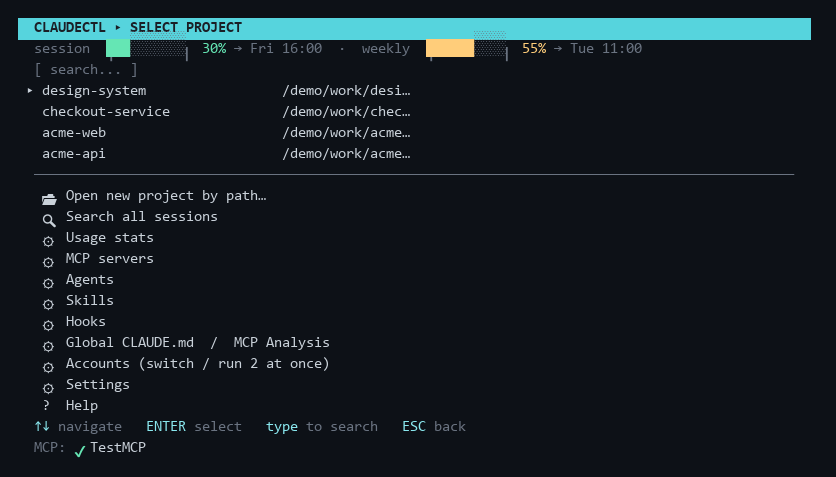
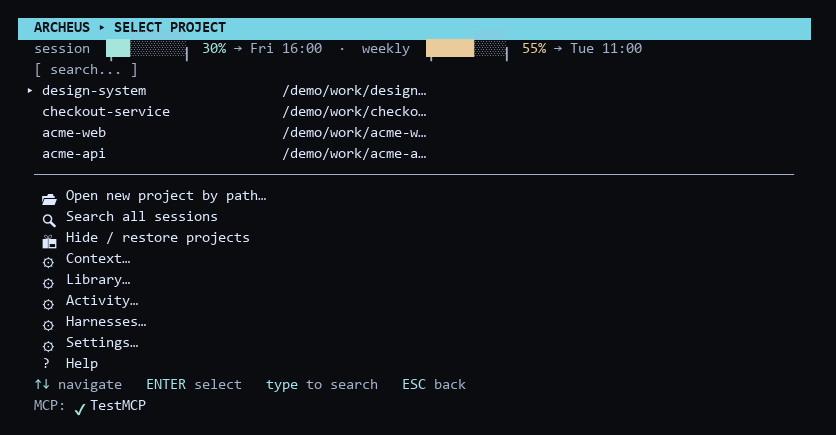
Re-shoot everything published, in the world the product is about
The captures were a release behind and taken in whichever look the tool
happened to leave on. They are taken in the graph world now — the one built
from this project's own architecture graph — as their own pass in
tools/shot_gui.py, because the audit that runs above it prints numbers that
describe the default skin and has to keep describing it. The TUI captures wear
the same palette, derived from themes.py rather than the sixteen literals that
were copied off the default theme and would never have failed when it moved.

Three defects, each found by LOOKING at the output rather than by running the
tool:

The graph world's surfaces were too transparent to read. Its `op` of .58 is
fine on the dashboard, whose cards are dense, and illegible on a sparse page,
where a large panel has nothing in it but the stage showing through — the
session detail pane was unreadable with a lit cluster behind it. .74 keeps the
scene visible through every surface and the text crisp. Per-page opacity is
still not the fix and never will be.

`.pgnote` and `.mtabs` are the only two text surfaces with no panel behind
them, which is right over a quiet gradient and wrong over a lit scene: a
cluster crossed the Usage page's harness strip and it read as "Claude ode".
They get a shadow where a stage is running, not a panel, because boxing them is
what the layout deliberately avoids.

The TUI capture shipped a warning about THIS MACHINE's packaging state across
[…]

Changed region(s): [[0.0, 0.0299, 0.9952, 0.9563]]

diff --git a/claude_sessions/web/app.css b/claude_sessions/web/app.css
@@ -2409,3 +2409,19 @@ html.zen .top>#bZen:hover,html.zen .top>#bZen:focus-visible{opacity:1}
   background:none;border-bottom:1px solid var(--line);
   padding:0;margin:0 0 var(--sp-3);z-index:auto}
 .mtabs .tab{padding:7px 13px;font-size:11.5px}
+
+/* ── the two text surfaces that sit ON the stage ────────────────────────
+   Everything else inside `#content` is in a `.card`, which paints
+   `rgba(var(--panel-rgb),var(--sk-op))` and therefore has a ground of its own.
+   `.pgnote` and `.mtabs` deliberately have none — a page's one-line note and an
+   in-content tab strip are not boxes, and over a quiet gradient that reads
+   exactly right, which is why they were written that way.
+
+   Over a LIT scene it stops reading: measured on the published captures, a
+   bright cluster crossed the harness strip and the Usage page's own tabs came
+   out as `Claude ode`, and the Memory page's note had a node sitting inside a
+   word. A shadow rather than a panel, because a panel would box the two things
+   the layout deliberately leaves unboxed — and it is scoped to `stage-on`, so
+   it exists only where its cause does. Static; no readback, nothing animated. */
+html.stage-on .pgnote,html.stage-on .mtabs .tab{
+  text-shadow:0 1px 3px rgba(0,0,0,.78)}

diff --git a/tools/shot_gui.py b/tools/shot_gui.py
@@ -790,6 +790,27 @@ def main():
             pg.set_viewport_size({'width': 1600, 'height': 1000})
             pg.wait_for_timeout(400)
             pg.screenshot(path=os.path.join(OUT, f'_skin_{sk}.png'))
+
+        # ── the published captures, in the graph world ──
+        # What the README and both sites show is a decision, not whatever the
+        # default happened to be: `graph` is the world built from this project's
+        # OWN architecture graph, so the screenshots wear the thing the product
+        # is about. It is a separate pass rather than a world set around the
+        # audit above, because every number that pass prints describes the
+        # default skin and has to keep describing it.
+        print(chr(10) + '— published captures (graph world) —')
+        pg.evaluate("ST.world='graph';applyTheme(ST.theme)")
+        pg.set_viewport_size({'width': 1600, 'height': 1000})
+        pg.evaluate("go('home')")
+        pg.wait_for_timeout(1200)
+        for name, nav in DOC_PAGES:
+            pg.evaluate(nav)
+            # longer than the audit's wait: these are the published frames, and
+            # the stage fades in over ~500ms after a world change
+            pg.wait_for_timeout(1100)
+            pg.screenshot(path=os.path.join(OUT, f'_doc_{name}.png'))
+            print('  ' + name)
+
         pg.evaluate("ST.world='';ST.skin='';applyTheme(ST.theme)")
         br.close()
     srv.shutdown()
@@ -828,15 +849,59 @@ def main():
 #: third-party design material we cannot redistribute — so the handful of shots
 #: that ship are copied into a tracked directory deliberately, by name, rather
 #: than by publishing the whole scratch folder.
+#: name -> how to get there, for the published pass. A project has to be open
+#: before a project TAB means anything, so the order is load-bearing and the
+#: list is a sequence rather than a mapping.
+DOC_PAGES = (
+    ('dash', "go('home')"),
+    ('usage', "go('usage')"),
+    ('client', "go('client')"),
+    ('sessions', "openProject(ST.projects[0]);TAB='sessions';go('project')"),
+    ('memory', "TAB='memory';go('project')"),
+)
+
 DOC_SHOTS = {
-    '_shot_dash.png': 'gui-dashboard.png',
-    '_shot_tab_sessions.png': 'gui-sessions.png',
-    '_shot_tab_memory.png': 'gui-memory.png',
-    '_shot_client.png': 'gui-claude-code.png',
-    '_shot_usage.png': 'gui-usage.png',
+    '_doc_dash.png': 'gui-dashboard.png',
+    '_doc_sessions.png': 'gui-sessions.png',
+    '_doc_memory.png': 'gui-memory.png',
+    '_doc_client.png': 'gui-claude-code.png',
+    '_doc_usage.png': 'gui-usage.png',
+    # The two that exist to SHOW a look rather than a screen, so they stay on
+    # the per-skin pass: the graph world beside a classic skin is the whole
+    # point of the pair, and shooting both in the same world would say nothing.
     '_skin_graph.png': 'gui-skin-graph.png',
     '_skin_crt.png': 'gui-skin-crt.png',
 }
+
+
+#: what a published capture is resampled to on the way out, in CSS pixels wide.
+#: The shots are TAKEN at 1600 because that is the layout worth showing — the
+#: grid has one more column there — and PUBLISHED at 1280 because no page
+#: renders them wider than 900: the manual sets 900, the README's table halves
+#: it. A supersampled 1280 is sharper than a native one and costs 36% fewer
+#: pixels, which is the whole reason this exists: the graph world's stage is a
+#: lit field of several hundred bodies, and PNG cannot compress noise. The same
+#: captures on the old flat background were 180 KB; at 1600 with the stage they
+#: are 790 KB each, and README.md embeds five of them by raw URL, so that is
+#: four megabytes a reader downloads to look at a repository page.
+PUBLISH_W = 1280
+
+
+def _downscale(src, dst):
+    """Resample a capture to PUBLISH_W on the way out. False if Pillow is
+    absent — the copy still happens, just at full size, because a missing
+    optional dependency must not silently publish NOTHING."""
+    try:
+        from PIL import Image
+    except ImportError:
+        return False
+    im = Image.open(src)
+    if im.width <= PUBLISH_W:
+        im.save(dst)
+        return True
+    h = round(im.height * PUBLISH_W / im.width)
+    im.resize((PUBLISH_W, h), Image.LANCZOS).save(dst)
+    return True
 
 
 def export_docs():
@@ -856,7 +921,8 @@ def export_docs():
             if not os.path.isfile(p):
                 print('  MISSING', src)
                 continue
-            shutil.copyfile(p, os.path.join(dest, name))
+            if not _downscale(p, os.path.join(dest, name)):
+                shutil.copyfile(p, os.path.join(dest, name))
             n += 1
         print('exported %d/%d shots → %s' % (n, len(DOC_SHOTS), dest))
 

diff --git a/tools/shot_tui.py b/tools/shot_tui.py
@@ -21,16 +21,57 @@ ROOT = os.path.dirname(os.path.dirname(os.path.abspath(__file__)))
 sys.path.insert(0, ROOT)
 sys.path.insert(0, os.path.join(ROOT, 'tests'))
 
+from claude_sessions import themes as _themes
+
 OUT = os.path.join(ROOT, 'docs', 'img')
 
-#: the 16 ANSI colours, plus the 256-cube, resolved against the GUI palette so
-#: the screenshots match the theme the app actually ships
-BASE16 = [
-    '#1b1f27', '#ff6b81', '#3fdd9d', '#f7b955', '#7dcfff', '#c792ea', '#56d4dd', '#c9d1d9',
-    '#6a7381', '#ff8fa1', '#65e6b4', '#ffcd7a', '#a5e0ff', '#dcb4ff', '#8ae8ef', '#f0f6fc',
-]
-BG = '#0d1117'
-FG = '#c9d1d9'
+#: Which palette the published TUI captures wear. `graph` — the same world the
+#: GUI captures use, so the two halves of one published set are one look rather
+#: than two. It is a hidden palette (a world owns it), which is exactly why it
+#: has to be named here: the picker will never hand it over.
+SHOT_PALETTE = 'graph'
+
+#: the 16 ANSI colours, DERIVED from that palette rather than written down
+#: again. The list used to be sixteen literals copied off the default theme,
+#: which is the shape this repo has been bitten by before: a second spelling of
+#: a canonical value is not a guard, it is a second thing to keep in step, and
+#: nothing would have failed when the palette moved underneath it.
+_P = _themes.PALETTES[SHOT_PALETTE]
+
+
+def _base16(p):
+    """The 16 terminal colours for a palette.
+
+    A palette states surfaces and roles, not an ANSI ramp, so the eight bright
+    slots are the same hues lifted toward white — which is what a terminal's
+    bright half is. `hex_to_x256` is deliberately not used: it never returns
+    0-15 (those are user-configurable in a real terminal), and this is the
+    renderer that has to DRAW them."""
+    def rgb(h):
+        return [int(h[i:i + 2], 16) for i in (1, 3, 5)]
+
+    def hexs(c):
+        return '#%02x%02x%02x' % tuple(int(max(0, min(255, v))) for v in c)
+
+    def lift(h, t=.35):
+        return hexs([v + (255 - v) * t for v in rgb(h)])
+
+    def mix(a, b, t=.5):
+        x, y = rgb(a), rgb(b)
+        return hexs([x[i] + (y[i] - x[i]) * t for i in range(3)])
+
+    # Cyan is the one slot a palette does not state. It is NOT `code`, which is
+    # a code-block ground and comes out near-black; blending the two hues that
+    # bracket it — the ok/teal role and the blue accent — is the derivation that
+    # keeps it a real hue of THIS palette rather than a literal from another.
+    dark = [p['bg2'], p['err'], p['ok'], p['warn'], p['accent'], p['accent2'],
+            mix(p['ok'], p['accent']), p['txt']]
+    return dark + [p['dim']] + [lift(c) for c in dark[1:7]] + [lift(p['txt'], .6)]
+
+
+BASE16 = _base16(_P)
+BG = _P['bg']
+FG = _P['txt']
 
 
 def cube(n):
@@ -232,6 +273,17 @@ def main():
             sb = H.Sandbox(mp, tmp)
             mp.setattr('shutil.get_terminal_size',
                        lambda *a, _c=cols, **k: os.terminal_size((_c, 40)))
+            # The startup warnings read THIS MACHINE, not the fixture, and they
+            # print above the first frame: the capture came out with the
+            # co-installation warning — the old distribution sharing files with
+            # this one — across the top of a published screenshot, which is a
+            # fact about the laptop that shot it. Silenced here rather than in
+            # `main`, because on a real install every one of them is exactly
+            # what the user needs to see.
+            for _w in ('coinstalled_warning', 'stale_env_warning',
+                       'stale_plugin_warning'):
+                mp.setattr('claude_sessions.migrate.' + _w,
+                           lambda *a, **k: '', raising=True)
             text = demoise(drive(H, mp, sb), tmp)
             rows = parse(last_frame(text), width=cols)
             rows = [r for r in rows if any(c.ch != ' ' for c in r)] or rows

diff --git a/tests/test_image_budget.py b/tests/test_image_budget.py
@@ -32,27 +32,39 @@ DOCS = os.path.join(ROOT, 'docs')
 #: PNG is what README.md embeds for PyPI and the WebP is what the manual links.
 #: www/public/img holds PNG only — next/image negotiates the format per request
 #: there, so a second source file would be re-encoded on the way out.
+#:
+#: docs/img and www/public/img were raised from 3000/2400 when the published
+#: captures moved into the graph world. It is not slack: the stage is a lit
+#: field of several hundred bodies, and PNG cannot compress noise — the same
+#: five screens were 180 KB each on the old flat background and are ~700 KB
+#: now, and resampling them smaller barely moves it (790 → 703 KB at 1280,
+#: measured), because fewer pixels of a noisy image are not fewer colours.
+#: What a READER downloads went DOWN in the same change: every page and the
+#: README link the WebP siblings, which are 66-99 KB. These ceilings are on
+#: masters nothing serves.
 BUDGET_KB = {
-    os.path.join('docs', 'img'): 3000,
+    os.path.join('docs', 'img'): 6000,
     # Nearly all of this is two masters no page serves: the 1254px logo every
     # icon is cut from, and the wordmark, which stays truecolour+alpha because
     # it composites onto three different grounds.
     os.path.join('docs', 'assets'): 1400,
     os.path.join('www', 'public'): 700,
-    os.path.join('www', 'public', 'img'): 2400,
+    os.path.join('www', 'public', 'img'): 5200,
 }
 
 #: The ceiling for one image a reader actually downloads. 600 KB is the
 #: architecture-graph animation at 538 KB plus room to breathe; it was 5770 KB
 #: as a GIF.
 #:
-#: This is deliberately a cap on what is LINKED, not on what is stored. Two
-#: files in the repo are over it and both are masters no page requests:
-#: `docs/assets/logo.png` (1254px, the source every icon is cut from, and
-#: `exclude_docs` keeps it out of the build) and `gui-skin-crt.png` (a CRT skin
-#: is scanline noise, which PNG cannot compress and a palette cannot survive —
-#: the manual links its 77 KB WebP). A cap on storage would have to grant both
-#: an exemption and would then be a list of exemptions.
+#: This is deliberately a cap on what is LINKED, not on what is stored, and the
+#: distinction is what lets the masters be heavy while the pages stay light.
+#: Every screenshot PNG in `docs/img` is now over it and NONE of them is
+#: requested: the manual links the WebP siblings and so does README.md, which
+#: is the change that made the graph-world captures affordable at all. The
+#: other master over it is `docs/assets/logo.png` (1254px, the source every
+#: icon is cut from, kept out of the build by `exclude_docs`). A cap on storage
+#: would have to grant each of them an exemption and would then be a list of
+#: exemptions rather than a rule.
 BIGGEST_LINKED_KB = 600
 
 

diff --git a/claude_sessions/themes.py b/claude_sessions/themes.py
@@ -708,7 +708,19 @@ SKINS = {
         # was tuned against had 120 rods per cluster. It now has 480 shell rods,
         # 30 frame tubes, 20 spokes and a 480-rod inner web — five times the lit
         # surface, so the same strength is five times the glow.
-        'arrive': 'lift', 'op': .58, 'stage': 'graph', 'bloom': .34, 'calm': .50, 'flow': 0.85,
+        # op .74, up from .58. Measured on the published captures: a panel at
+        # .58 over a BRIGHT part of the cluster leaves body text washed out
+        # — the sessions detail pane was illegible with a lit cluster behind
+        # it, and the memory page's intro line read through the scene. The
+        # trap is that the dashboard looks fine at .58, because its cards are
+        # dense; the pages that break are the SPARSE ones, where a large
+        # panel has nothing in it but the scene showing through. Per-page
+        # opacity is not the fix and never will be — a page you happen to be
+        # on cannot be a reason for the theme to be a different theme — so the
+        # world carries one value that works on its worst page. At .74 the
+        # cluster still reads through every surface; at .86 it stops being
+        # translucent at all, which is the thing worth having.
+        'arrive': 'lift', 'op': .74, 'stage': 'graph', 'bloom': .34, 'calm': .50, 'flow': 0.85,
     },
     'crt': {
         'label': 'Terminal', 'blurb': 'Retro CRT in a bezel. Curved raster, rolling refresh, phosphor glow.',

diff --git a/README.md b/README.md
@@ -39,7 +39,7 @@
 </p>
 
 <p align="center">
-  <img alt="archeus dashboard" src="https://raw.githubusercontent.com/babarmuhammad/archeus/main/docs/img/gui-dashboard.png" width="900">
+  <img alt="archeus dashboard" src="https://raw.githubusercontent.com/babarmuhammad/archeus/main/docs/img/gui-dashboard.webp" width="900">
 </p>
 
 ---
@@ -96,18 +96,18 @@ It also ships as a Claude Code plugin, if you'd rather stay inside the session:
 
 <table>
 <tr>
-<td width="50%"><img alt="Session browser" src="https://raw.githubusercontent.com/babarmuhammad/archeus/main/docs/img/gui-sessions.png"><br>
+<td width="50%"><img alt="Session browser" src="https://raw.githubusercontent.com/babarmuhammad/archeus/main/docs/img/gui-sessions.webp"><br>
 <sub><b>Every session, every project.</b> Search, tag, fork, resume, archive,
 export — across multiple Claude accounts at once.</sub></td>
-<td width="50%"><img alt="Project memory" src="https://raw.githubusercontent.com/babarmuhammad/archeus/main/docs/img/gui-memory.png"><br>
+<td width="50%"><img alt="Project memory" src="https://raw.githubusercontent.com/babarmuhammad/archeus/main/docs/img/gui-memory.webp"><br>
 <sub><b>Memory Claude built about your code.</b> Entities, relations and
 lessons, with the token cost of every block shown before you spend it.</sub></td>
 </tr>
 <tr>
-<td><img alt="Usage" src="https://raw.githubusercontent.com/babarmuhammad/archeus/main/docs/img/gui-usage.png"><br>
+<td><img alt="Usage" src="https://raw.githubusercontent.com/babarmuhammad/archeus/main/docs/img/gui-usage.webp"><br>
 <sub><b>Where the tokens went.</b> Per day, per project, per account, per
 model — read from your own transcripts, not an API.</sub></td>
-<td><img alt="Claude Code's own state" src="https://raw.githubusercontent.com/babarmuhammad/archeus/main/docs/img/gui-claude-code.png"><br>
+<td><img alt="Claude Code's own state" src="https://raw.githubusercontent.com/babarmuhammad/archeus/main/docs/img/gui-claude-code.webp"><br>
 <sub><b>Claude Code itself, made visible.</b> Which skills and plugins you
 actually use, what is on disk, and a typed editor for every account's
 settings.</sub></td>

diff --git a/CONTRIBUTING.md b/CONTRIBUTING.md
@@ -58,6 +58,37 @@ first. The full sequence, and what a page owes beyond passing them, is in
 Pillow. All three run in CI — the first two on every push, the third on the weekly
 schedule with the GUI smoke check.
 
+### If you changed how the app LOOKS
+
+Every published screenshot is generated, and a front-end change that does not
+re-shoot them ships a manual showing an app that no longer exists. After a
+change to layout, a skin or world, the stage, the nav, or a TUI screen:
+
+```bash
+py tools/shot_gui.py --docs     # every page + the published set, then export
+py tools/shot_tui.py            # the two terminal frames
+py tools/optimize_images.py     # derive the WebP siblings, re-compress
+```
+
+The architecture animation only needs re-capturing when the graph itself
+changes, and it must be shot from a CLEAN checkout named `archeus` — the
+capture titles the graph after its directory and draws whatever is on disk, so
+one taken in a working tree publishes your scratch files:
+
+```bash
+git worktree add ../archeus HEAD --detach
+py tools/capture_graph_gif.py --project ../archeus --frames 30 --fps 12 \
+    --width 900 --height 520 --out docs/graph-real.webp
+cp docs/graph-real.webp www/public/graph-real.webp
+git worktree remove ../archeus
+```
+
+Two things the tools decide for you, so do not fight them: the published
+captures are taken in the **graph world** (`DOC_PAGES` in `tools/shot_gui.py`),
+and both sites get the same files — `docs/img/` and `www/public/img/` — because
+copying to one and remembering the other by hand is how the site ships a
+release behind the manual.
+
 **Do not hand-edit an image under `docs/img/`.** `tools/shot_gui.py` and
 `tools/shot_tui.py` write the PNGs and `tools/optimize_images.py` derives the WebP the
 manual actually links; `tests/test_demo_fixtures.py` rejects anything else in there.

diff --git a/notes/seo.md b/notes/seo.md
@@ -84,6 +84,17 @@ a push. Google does not participate: it is reached by crawling and by Search
 Console, so there is nothing to run for it. Not on a deploy hook on purpose; 48
 URLs re-submitted on every push is how a host gets its quota cut.
 
+## When the app's LOOK changes
+
+The screenshots are published surface, and every one of them is generated — a
+front-end change that does not re-shoot them leaves both sites showing an app
+that no longer exists. `CONTRIBUTING.md` has the commands; the two decisions
+worth knowing here are that the published captures are taken in the **graph
+world**, and that the architecture animation must be captured from a clean
+checkout named `archeus`, never the working tree (it titles the graph after its
+directory and draws whatever is on disk — the published one said "Claude" and
+included a scratch file for a week).
+
 ## Measured state, 2026-09-15
 
 Worth keeping because the intuition is wrong in both directions.

diff --git a/docs/desktop.md b/docs/desktop.md
@@ -69,9 +69,9 @@ Icons are inline Material SVG — no CDN, no emoji.
 
 <div class="grid" markdown>
 
-![Graph world](img/gui-skin-graph.webp){ width="1600" height="1000" loading=lazy }
+![Graph world](img/gui-skin-graph.webp){ width="1280" height="800" loading=lazy }
 
-![CRT skin](img/gui-skin-crt.webp){ width="1600" height="1000" loading=lazy }
+![CRT skin](img/gui-skin-crt.webp){ width="1280" height="800" loading=lazy }
 
 </div>
 

diff --git a/docs/index.md b/docs/index.md
@@ -74,7 +74,7 @@ session in five minutes.
 
 ![Terminal UI](img/tui-main.png){ width="836" height="477" loading=lazy }
 
-![Desktop app](img/gui-sessions.webp){ width="1600" height="1000" loading=lazy }
+![Desktop app](img/gui-sessions.webp){ width="1280" height="800" loading=lazy }
 
 </div>
 
